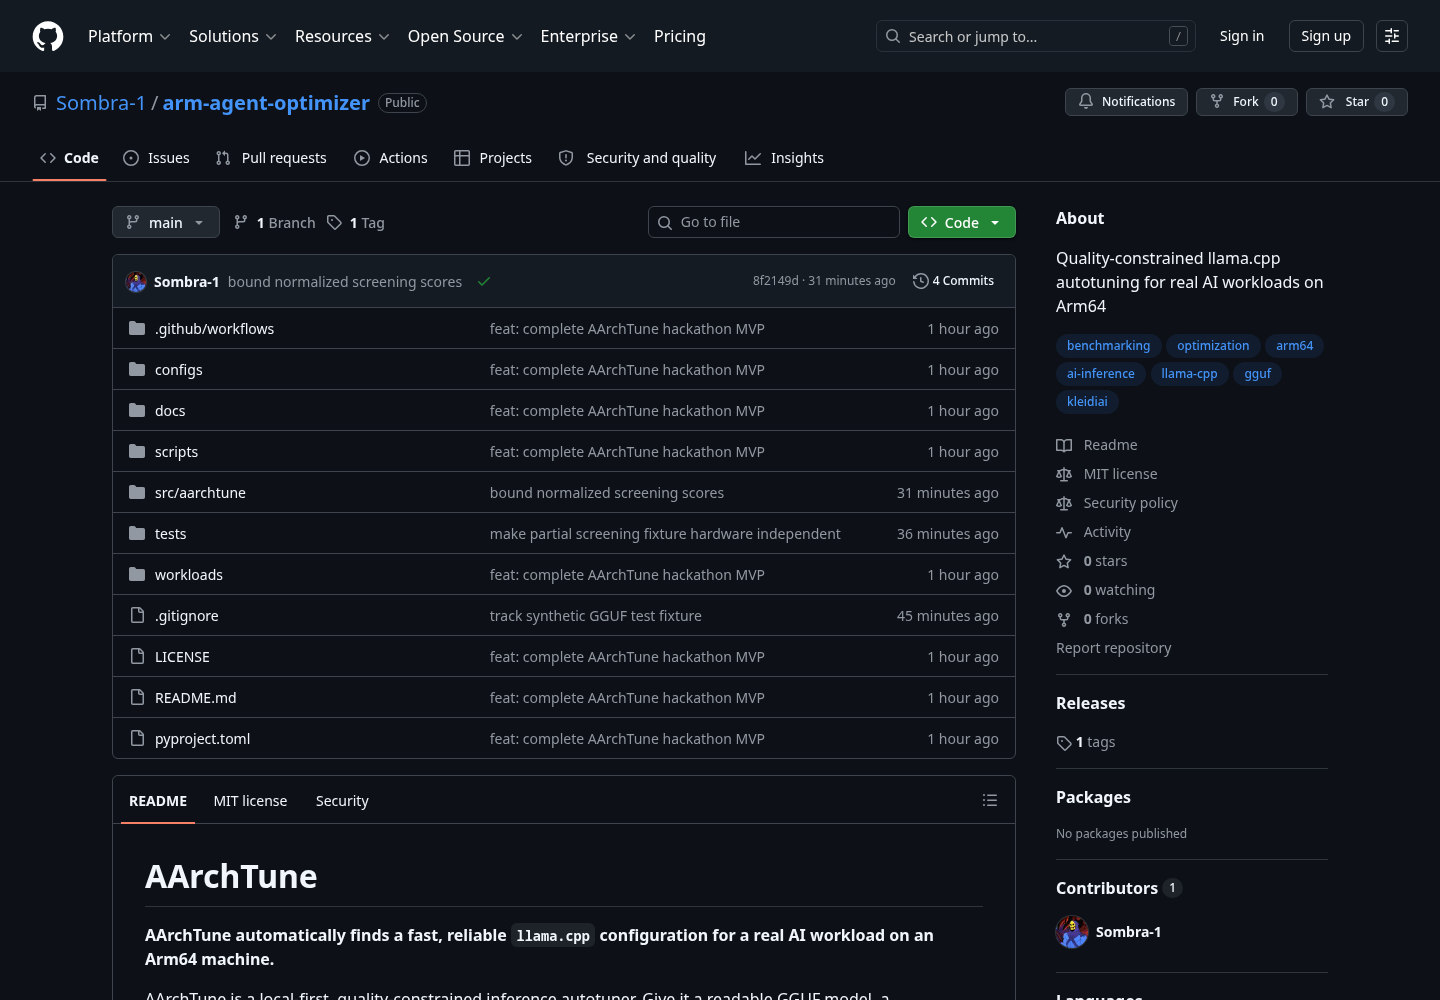
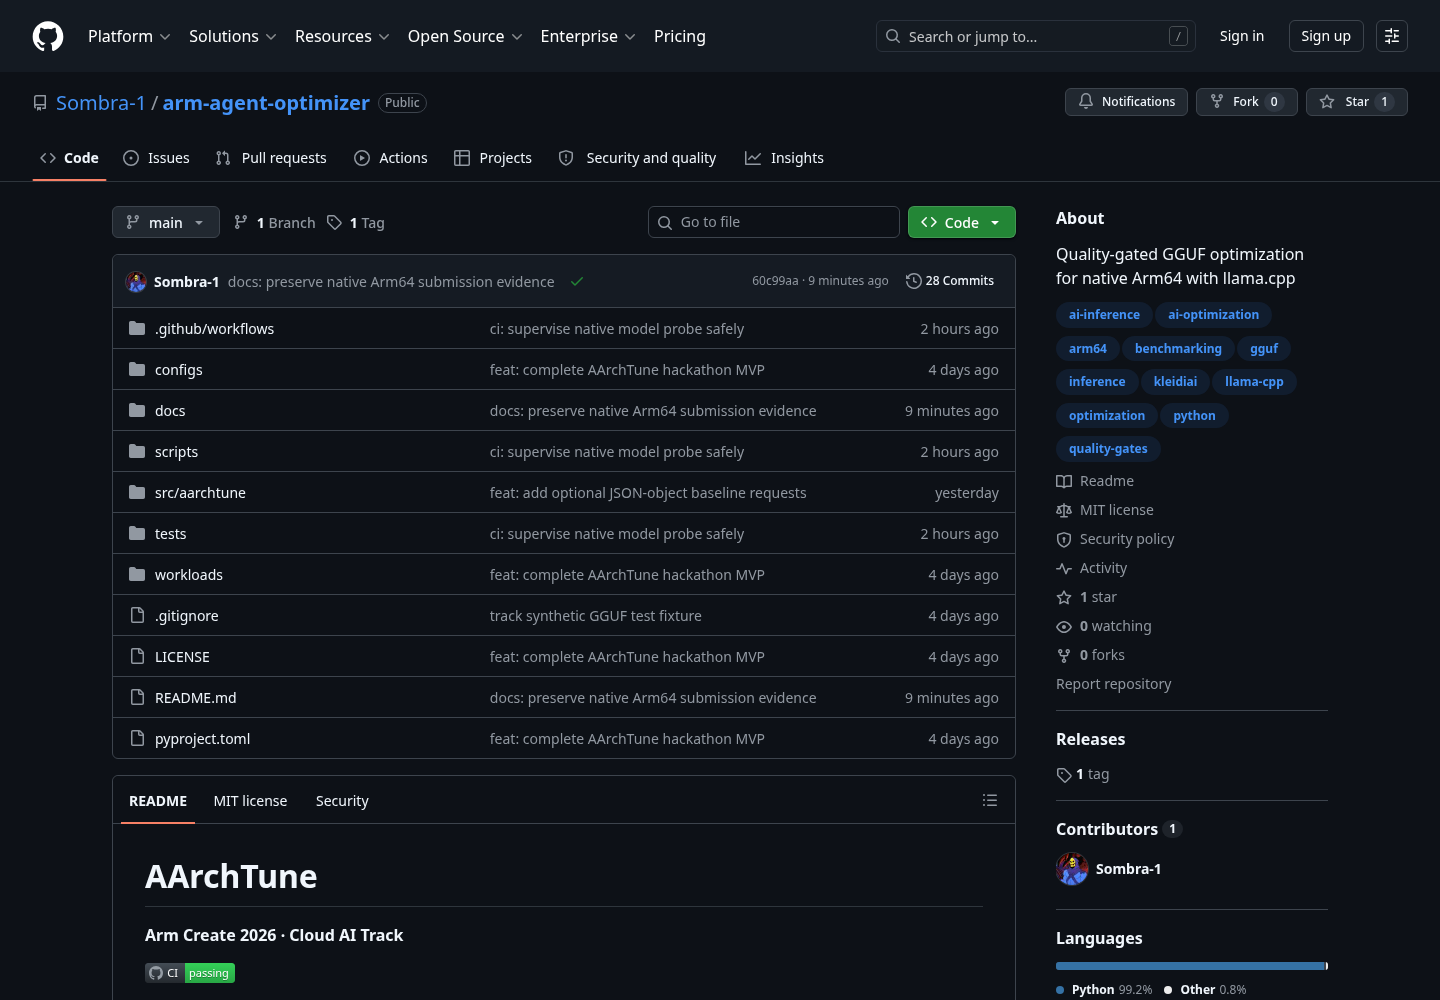
docs: refresh final submission screenshots

diff --git a/docs/screenshots/README.md b/docs/screenshots/README.md
@@ -1,21 +1,36 @@
 # Submission screenshot evidence
 
-These images support the Arm AI Optimization Challenge submission. They were captured at 1440 × 1000 with the locally installed Brave browser in headless mode. No browser package or browser binary was installed or downloaded.
+These images support the Arm Create 2026 Cloud AI submission. They were
+captured at 1440 × 1000 with the existing Brave browser in headless mode. No
+browser package or browser binary was installed or downloaded.
 
-Historical capture source: `8f2149d4190071f98edf1e024ec15c4d37fd0170`
-(`v0.1.0-arm-validation`). Screenshot 01 contains a documentation overlay
-prepared from that source commit, so it should be treated as an archived
-illustration rather than a current repository capture.
+Repository-facing capture source:
+`60c99aad29c13f42151af60fdb55d0489b5e6c2a`
+(`docs: preserve native Arm64 submission evidence`).
+
+Capture date: `2026-07-26`.
+
+The browser used an isolated, unauthenticated profile against the real public
+GitHub pages. No local GitHub-like UI or documentation overlay was substituted.
 
 ## Evidence classification
 
-- `01-project-overview-cloud-ai.png` is repository documentation evidence. `README.md` was rendered with GitHub's authenticated Markdown API into a temporary, GitHub-like local HTML page.
-- `02-public-github-repository.png` is public repository evidence captured from `https://github.com/Sombra-1/arm-agent-optimizer`. It shows the public repository, `main` branch, description, README, and MIT license.
-- `03-ci-passing.png` is real, historical software-validation evidence captured
-  from public GitHub Actions run `29967500449`. It shows successful Python 3.11
-  and 3.12 jobs. CI does not validate Arm performance. Use a current green CI
-  capture in the final submission if the visible commit must match `main`.
-- `04-synthetic-report-hero.png`, `05-fastest-candidate-rejected.png`, and `06-synthetic-funnel-pareto.png` are synthetic behavioral evidence captured from one locally generated, validated AArchTune report. They are not real Arm64 performance evidence.
+- `01-project-overview-cloud-ai.png` is a current public GitHub README capture.
+  It shows Arm Create 2026 / Cloud AI, the live CI badge, native Arm64,
+  quality gating, reproducible evidence, and the validated safety outcome.
+- `02-public-github-repository.png` is a current public repository capture from
+  <https://github.com/Sombra-1/arm-agent-optimizer>. It shows `main`, the
+  current description/topics, README, MIT license, and project identity.
+- `03-ci-passing.png` is current software-validation evidence from public CI
+  run
+  [`30204488854`](https://github.com/Sombra-1/arm-agent-optimizer/actions/runs/30204488854).
+  It shows the evidence-preservation commit succeeded with both Python 3.11 and
+  3.12 jobs. CI does not validate Arm performance.
+- `04-synthetic-report-hero.png`, `05-fastest-candidate-rejected.png`, and
+  `06-synthetic-funnel-pareto.png` are retained synthetic behavioral evidence
+  from one locally generated, validated AArchTune report. They are not real
+  Arm64 performance evidence and were not changed during the repository-facing
+  refresh.
 
 ## Synthetic scenario
 
@@ -36,15 +51,13 @@ The run explicitly used `--allow-synthetic` and `--allow-non-arm-development`. B
 
 Every synthetic performance screenshot visibly includes `SYNTHETIC TEST EVIDENCE` and `Not Arm or model-performance evidence`. Synthetic measurements demonstrate product behavior only; they must not be presented as Arm64, KleidiAI, or real-model performance.
 
-## Regeneration requirement
+## Permanent native evidence
 
 The repository now permanently preserves the original reviewed native artifact
 and checksum in [`docs/evidence/`](../evidence/README.md), because the Actions
 copy had temporary retention. This preservation does not turn a single native
 smoke into repeatability proof.
 
-Screenshots 01–03 must be refreshed after the evidence-preservation commit and
-its normal CI pass. Screenshots 04–06 remain synthetic product-behavior
-illustrations and must retain their visible synthetic labels. Native
-quantitative claims may be made only from the validated native Passport and
-bundle.
+Screenshots 04–06 remain synthetic product-behavior illustrations and must
+retain their visible synthetic labels. Native quantitative claims may be made
+only from the validated native Passport and bundle.
